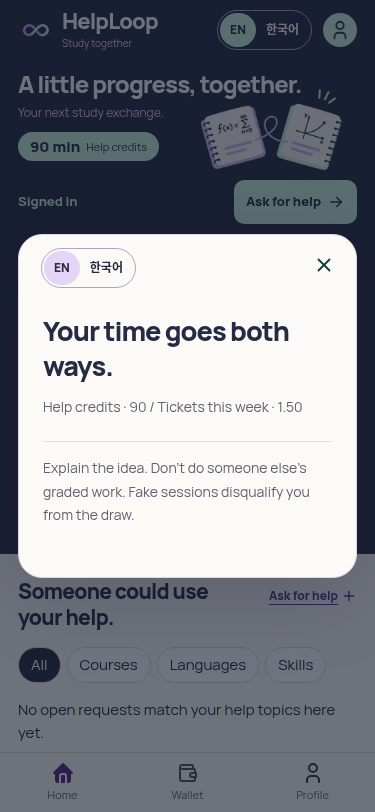
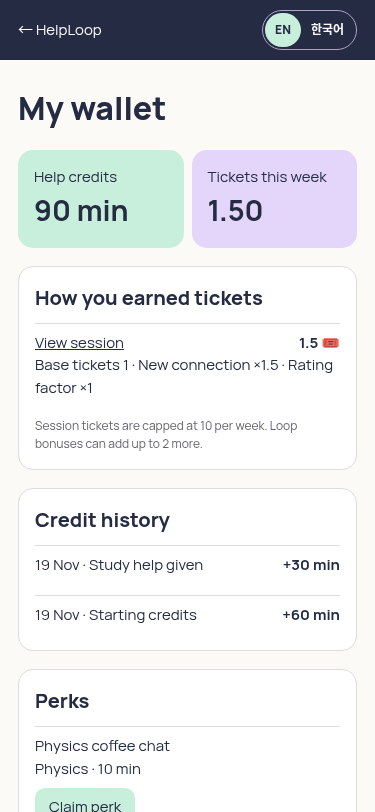
Show credit history, ticket factors and claimable perks on the bilingual wallet

diff --git a/src/app/(app)/wallet/screen.tsx b/src/app/(app)/wallet/screen.tsx
@@ -1,0 +1,65 @@
+"use client";
+
+import Link from "next/link";
+import { useActionState, useEffect } from "react";
+import { useRouter } from "next/navigation";
+import { useLanguage } from "@/components/locale";
+import { GoogleSignIn } from "@/components/google-sign-in";
+import type { getWallet } from "@/server/queries";
+import { claimPerk } from "./actions";
+import home from "@/components/home/home.module.css";
+import styles from "./wallet.module.css";
+
+const words = {
+  en: { title:"My wallet", balance:"Help credits", tickets:"Tickets this week", minutes:"min", why:"How you earned tickets", history:"Credit history",
+    empty:"Help a classmate and confirm the session together to earn your first tickets.", noEntries:"No credit transactions yet.", pair:"New connection", repeat:"Repeat pair", rating:"Rating factor", base:"Base tickets", session:"View session",
+    perks:"Perks", noPerks:"No perks available yet.", claim:"Claim perk", claimed:"Perk claimed", already:"Already claimed", credit:"More credits needed.", full:"All places are taken.",
+    unavailable:"Couldn’t load or update your wallet.", retry:"Try again", login:"Sign in to see your wallet.", draw:"This week’s draw", hash:"Published draw code", noDraw:"Draw details haven’t been published yet.",
+    cap:"Session tickets are capped at 10 per week. Loop bonuses can add up to 2 more.", starter:"Starting credits", session_earned:"Study help given", session_spent:"Study help received", perk:"Perk redemption", admin:"Credit adjustment" },
+  ko: { title:"내 지갑", balance:"도움 크레딧", tickets:"이번 주 티켓", minutes:"분", why:"티켓 적립 내역", history:"크레딧 내역",
+    empty:"친구를 도와주고 함께 세션을 확인하면 첫 티켓을 받아요.", noEntries:"아직 크레딧 내역이 없어요.", pair:"새 친구", repeat:"반복 만남", rating:"평점 배수", base:"기본 티켓", session:"세션 보기",
+    perks:"혜택", noPerks:"아직 이용할 수 있는 혜택이 없어요.", claim:"혜택 신청", claimed:"신청 완료", already:"이미 신청했어요", credit:"크레딧이 부족해요.", full:"정원이 찼어요.",
+    unavailable:"지갑을 불러오거나 갱신하지 못했어요.", retry:"다시 시도", login:"지갑을 보려면 로그인해 주세요.", draw:"이번 주 추첨", hash:"공개된 추첨 코드", noDraw:"아직 추첨 정보가 없어요.",
+    cap:"세션 티켓은 주당 최대 10장이고, 루프 보너스로 최대 2장을 더 받을 수 있어요.", starter:"시작 크레딧", session_earned:"도움 제공", session_spent:"도움 받음", perk:"혜택 사용", admin:"크레딧 조정" }
+};
+type Wallet = Awaited<ReturnType<typeof getWallet>>;
+type Perk = { id:string; title:string; department:string|null; host_label:string; cost_minutes:number; claimed:boolean };
+
+export function WalletScreen({ wallet, perks = [], gate }: { wallet?:Wallet; perks?:Perk[]; gate?:"login"|"unavailable" }) {
+  const [language,setLanguage] = useLanguage();
+  const t = words[language];
+  const router = useRouter();
+  const [feedback,action,pending] = useActionState(claimPerk,"");
+  const loaded = !!wallet;
+  useEffect(() => {
+    if (!loaded) return;
+    const refresh = () => { if (!document.hidden) router.refresh(); };
+    const timer = window.setInterval(refresh, 15000);
+    document.addEventListener("visibilitychange", refresh);
+    return () => { clearInterval(timer); document.removeEventListener("visibilitychange", refresh); };
+  }, [loaded, router]);
+  const date = new Intl.DateTimeFormat(language === "ko" ? "ko-KR" : "en-GB", { month:"short", day:"numeric", timeZone:"Asia/Seoul" });
+  return <main className={home.app} lang={language}>
+    <div className={home.darkSurface}><header className={home.masthead}><Link href="/" className={home.brand}>← HelpLoop</Link>
+      <div className={home.language}><button aria-label="English" aria-pressed={language==="en"} onClick={()=>setLanguage("en")}>EN</button>
+        <button lang="ko" aria-pressed={language==="ko"} onClick={()=>setLanguage("ko")}>한국어</button></div></header></div>
+    <div className={styles.body}><h1>{t.title}</h1>{gate && <p role="status">{t[gate]}</p>}
+      {gate === "login" && <GoogleSignIn configured language={language} className={home.primary}/>}
+      {gate === "unavailable" && <button onClick={()=>router.refresh()}>{t.retry}</button>}
+      {wallet && <>
+        <div className={styles.summary}><div><span>{t.balance}</span><strong>{wallet.balance} {t.minutes}</strong></div><div><span>{t.tickets}</span><strong>{wallet.weekTickets}</strong></div></div>
+        <section><h2>{t.why}</h2>{wallet.breakdown.length === 0 && <p>{t.empty}</p>}
+          {wallet.breakdown.map(b => <article key={b.sessionId}><div className={styles.row}><Link href={`/s/${b.sessionId}`}>{t.session}</Link><strong>{b.tickets} 🎟</strong></div>
+            <p>{t.base} {b.base} · {b.newPair && <span>{t.pair} ×1.5 · </span>}{b.pairFactor !== 1 && <span>{t.repeat} ×{b.pairFactor} · </span>}{t.rating} ×{b.ratingFactor}</p></article>)}
+          <small>{t.cap}</small></section>
+        <section><h2>{t.history}</h2>{wallet.entries.length === 0 && <p>{t.noEntries}</p>}
+          {wallet.entries.map((entry,i) => <article className={styles.row} key={i}><span>{date.format(new Date(entry.createdAt))} · {t[entry.reason]}</span>
+          <strong>{entry.delta > 0 ? "+" : ""}{entry.delta} {t.minutes}</strong></article>)}</section>
+        <section><h2>{t.perks}</h2>{perks.length === 0 && <p>{t.noPerks}</p>}
+          {perks.map(p => <article key={p.id}><h3>{p.title}</h3><p>{[p.department,p.host_label].filter(Boolean).join(" · ")} · {p.cost_minutes} {t.minutes}</p>
+            <form action={action}><button className={styles.claim} disabled={pending || p.claimed || p.cost_minutes > wallet.balance} name="perk" value={p.id}>{p.claimed ? t.already : t.claim}</button></form></article>)}
+          {feedback && <p role="status">{t[feedback as keyof typeof t]}</p>}</section>
+        <section><h2>{t.draw}</h2>{wallet.draw ? <><p>{wallet.draw.prizes.map(p=>p.label).join(" · ")}</p><small>{t.hash}</small><code>{wallet.draw.commitHash}</code></> : <p>{t.noDraw}</p>}</section>
+      </>}
+    </div></main>;
+}

diff --git a/src/components/home/home.tsx b/src/components/home/home.tsx
@@ -5,7 +5,6 @@ import Link from "next/link";
 import { useEffect, useRef, useState } from "react";
 import { GoogleSignIn } from "@/components/google-sign-in";
 import { useLanguage } from "@/components/locale";
-import { useWallet } from "./use-wallet";
 import { LiveFeed } from "./live-feed";
 import { copy } from "./copy";
 import { CampusExplore, CampusDetails, StudyPreferences, campusCopy, type CampusPanel } from "./campus";
@@ -27,15 +26,14 @@ import arrow from "./assets/icons/arrow.svg";
 
 type Panel = "request" | "session" | "ask" | "wallet" | CampusPanel | null;
 
-export function HomeScreen({ configured, signedIn = false, ownRequests = null, sessions = null, authError = false, onboarding = false, exampleSessionAt = "2026-11-18T05:00:00Z" }: {
-  sessions?: { id: string; scheduled_at: string; place: string }[] | null; ownRequests?: { id: string; topic: string }[] | null; configured: boolean; signedIn?: boolean; authError?: boolean; onboarding?: boolean; exampleSessionAt?: string;
+export function HomeScreen({ configured, balance, signedIn = false, ownRequests = null, sessions = null, authError = false, onboarding = false, exampleSessionAt = "2026-11-18T05:00:00Z" }: {
+  balance?: number | null; sessions?: { id: string; scheduled_at: string; place: string }[] | null; ownRequests?: { id: string; topic: string }[] | null; configured: boolean; signedIn?: boolean; authError?: boolean; onboarding?: boolean; exampleSessionAt?: string;
 }) {
   const [language, setLanguage] = useLanguage();
   const t = copy[language];
   const [tab, setTab] = useState(2);
   const [panel, setPanel] = useState<Panel>(null);
-  const walletSummary = useWallet(signedIn, panel === "wallet");
-  const creditMinutes = signedIn ? walletSummary?.balance ?? "—" : 60;
+  const creditMinutes = signedIn ? balance ?? "—" : 60;
   const [request, setRequest] = useState(0);
   const dialog = useRef<HTMLDialogElement>(null);
   const tabs = useRef<(HTMLButtonElement | null)[]>([]);
@@ -72,7 +70,7 @@ export function HomeScreen({ configured, signedIn = false, ownRequests = null, s
             <span><strong>HelpLoop</strong><span>{t.brand}</span></span>
           </Link>
           {!onboarding && <nav aria-label={t.navigation} className={styles.navigation}>
-            {t.nav.map((label, i) => i === 2 ? <Link key={label} href="/profile">{icon(profile, 24)}<span>{label}</span></Link> : <button key={i} type="button" aria-current={i === 0 && !panel ? "page" : undefined}
+            {t.nav.map((label, i) => i === 1 && signedIn ? <Link key={label} href="/wallet">{icon(wallet, 24)}<span>{label}</span></Link> : i === 2 ? <Link key={label} href="/profile">{icon(profile, 24)}<span>{label}</span></Link> : <button key={i} type="button" aria-current={i === 0 && !panel ? "page" : undefined}
               onClick={() => i === 0 ? (setTab(2), window.scrollTo({ top: 0, behavior: "smooth" })) : setPanel("wallet")}>
               {icon([home, wallet, profile][i], 24)}<span>{label}</span>
             </button>)}
@@ -89,9 +87,9 @@ export function HomeScreen({ configured, signedIn = false, ownRequests = null, s
           <section className={styles.hero} aria-labelledby="home-heading">
             <h1 id="home-heading">{t.hero.map((line, i) => <span key={i}>{line}</span>)}</h1>
             <p>{t.subtitle}</p>
-            <button type="button" className={styles.credits} onClick={() => setPanel("wallet")} aria-label={signedIn ? t.walletTitle : t.creditLabel}>
+            {signedIn ? <Link className={styles.credits} href="/wallet"><strong>{creditMinutes}{language === "ko" ? "분" : " min"}</strong><span>{t.credits}</span></Link> : <button type="button" className={styles.credits} onClick={() => setPanel("wallet")} aria-label={signedIn ? t.walletTitle : t.creditLabel}>
               <strong>{creditMinutes}{language === "ko" ? "분" : " min"}</strong><span>{t.credits}</span>
-            </button>
+            </button>}
             <Image className={styles.heroArt} src={notebooks} alt="" width={300} height={200} priority sizes="(min-width: 900px) 280px, 170px" />
           </section>
           <section className={styles.workbench}>
@@ -166,10 +164,7 @@ export function HomeScreen({ configured, signedIn = false, ownRequests = null, s
           <button type="button" className={styles.close} aria-label={t.close} onClick={() => dialog.current?.close()}>{icon(close)}</button>
           {(panel === "request" || panel === "session") && <span className={styles.course}>{t.courses[panel === "session" ? 0 : request]}</span>}
           <h2 id="dialog-heading">{panelTitle}</h2>
-          {panel === "wallet" && signedIn ? <p>{walletSummary
-            ? `${t.credits} · ${walletSummary.balance} / ${language === "ko" ? "이번 주 티켓" : "Tickets this week"} · ${walletSummary.weekTickets}`
-            : language === "ko" ? "지갑 정보를 기다리는 중이에요." : "Waiting for wallet data."}</p>
-            : panel === "practice" || panel === "books" || panel === "trust" ? <CampusDetails language={language} panel={panel} /> : <p>{panel === "session" ? t.withPartner : panel === "request" ? t.detail : panel === "ask" ? t.askBody : t.walletBody}</p>}
+          {panel === "practice" || panel === "books" || panel === "trust" ? <CampusDetails language={language} panel={panel} /> : <p>{panel === "session" ? t.withPartner : panel === "request" ? t.detail : panel === "ask" ? t.askBody : t.walletBody}</p>}
           {panel === "ask" && <StudyPreferences language={language} />}
           {(panel === "request" || panel === "session") && <><p className={styles.dialogPlace}>{icon(clock)}{t.places[panel === "session" ? 0 : request]}</p>
             {panel === "session" && <p><time dateTime={exampleSessionAt}>{t.sessionTime} · {sampleDate}</time></p>}

diff --git a/src/server/helpFeed.ts b/src/server/helpFeed.ts
@@ -4,37 +4,36 @@ import { createAdminClient } from "@/lib/supabase/admin";
 import { createClient } from "@/lib/supabase/server";
 import { rankRequestsForHelper } from "@/lib/model/priority";
 
-import { readAll } from "./readAll";
-
 export async function getHelpFeed() {
   const db = await createClient();
   const { data: { user } } = await db.auth.getUser();
   if (!user) return null;
-  const now = new Date();
-  const [profile, board, history, catalog] = await Promise.all([
-    db.from("profiles").select("help_courses").eq("id", user.id).single(),
-    readAll((from, to) => db.from("request_board").select("id, asker_id, course_code, topic, details, place, minutes, deadline, created_at, is_anonymous")
-      .eq("status", "open").gt("deadline", now.toISOString()).order("deadline").order("id").range(from, to)),
-    readAll((from, to) => db.from("sessions").select("asker_id, helper_id").eq("status", "completed").or(`asker_id.eq.${user.id},helper_id.eq.${user.id}`).order("id").range(from, to)),
-    db.from("courses").select("code, kind, name_ko, name_en"),
-  ]);
-  if (profile.error || catalog.error) throw new Error("Cannot load help feed");
+  const profile = await db.from("profiles").select("help_courses").eq("id", user.id).single();
+  if (profile.error) throw profile.error;
   const courses = profile.data.help_courses;
-  const rows = board.filter(row => row.asker_id !== user.id && row.course_code && courses.includes(row.course_code));
+  if (!courses.length) return [];
+  const now = new Date();
+  const [board, history, catalog] = await Promise.all([
+    db.from("request_board").select("id, asker_id, course_code, topic, details, place, minutes, deadline, created_at, is_anonymous")
+      .eq("status", "open").in("course_code", courses).gt("deadline", now.toISOString()).order("deadline").order("id"),
+    db.from("sessions").select("asker_id, helper_id").eq("status", "completed").or(`asker_id.eq.${user.id},helper_id.eq.${user.id}`),
+    db.from("courses").select("code, kind, name_ko, name_en").in("code", courses),
+  ]);
+  if (board.error || history.error || catalog.error) throw new Error("Cannot load help feed");
+  const rows = board.data.filter(row => row.asker_id !== user.id);
   if (!rows.length) return [];
   // Only resolve identities for open, masked rows that the caller's board already returned.
   // Keep these IDs inside this module for ranking. Never include them in a card.
   const masked = rows.flatMap(row => row.is_anonymous && row.id ? [row.id] : []);
-  const visible = [...new Set(rows.flatMap(row => !row.is_anonymous && row.asker_id ? [row.asker_id] : []))];
-  const [identities, names] = await Promise.all([
-    masked.length ? createAdminClient().from("requests").select("id, asker_id")
-      .in("id", masked).eq("is_anonymous", true).eq("status", "open") : { data: [], error: null },
-    visible.length ? db.from("profiles").select("id, display_name, help_courses").in("id", visible) : { data: [], error: null },
-  ]);
-  if (identities.error || names.error) throw new Error("Cannot load matching students");
+  const identities = masked.length ? await createAdminClient().from("requests").select("id, asker_id")
+    .in("id", masked).eq("is_anonymous", true).eq("status", "open") : { data: [], error: null };
+  if (identities.error) throw identities.error;
   const hidden = new Map(identities.data.map(row => [row.id, row.asker_id]));
+  const visible = [...new Set(rows.flatMap(row => !row.is_anonymous && row.asker_id ? [row.asker_id] : []))];
+  const names = visible.length ? await db.from("profiles").select("id, display_name, help_courses").in("id", visible) : { data: [], error: null };
+  if (names.error) throw names.error;
   const people = new Map(names.data.map(person => [person.id, person]));
-  const partners = new Set(history.map(row => row.asker_id === user.id ? row.helper_id : row.asker_id));
+  const partners = new Set(history.data.map(row => row.asker_id === user.id ? row.helper_id : row.asker_id));
   const byId = new Map(rows.map(row => [row.id, row]));
   const offers = new Map(catalog.data.map(course => [course.code, course]));
   const requests = rows.flatMap(row => {

diff --git a/src/server/suggestedHelpers.ts b/src/server/suggestedHelpers.ts
@@ -4,8 +4,6 @@ import { createAdminClient } from "@/lib/supabase/admin";
 import { suggestHelpers } from "@/lib/model/priority";
 import { weekStartKST } from "@/lib/model/tickets";
 
-import { readAll } from "./readAll";
-
 export async function getSuggestedHelpers(requestId: string) {
   const db = await createClient();
   const { data: { user } } = await db.auth.getUser();
@@ -15,21 +13,25 @@ export async function getSuggestedHelpers(requestId: string) {
   if (request.error) throw request.error;
   if (!request.data) return [];
   const courseCode = request.data.course_code;
-  const [candidates, ratings, history, workload] = await Promise.all([
-    readAll((from, to) => db.from("profiles").select("id, display_name, help_courses")
-      .eq("consent", true).neq("id", user.id).contains("help_courses", [courseCode]).order("id").range(from, to)),
-    readAll((from, to) => db.from("helper_stats").select("user_id, avg_rating").order("user_id").range(from, to)),
-    readAll((from, to) => db.from("sessions").select("asker_id, helper_id").eq("status", "completed").or(`asker_id.eq.${user.id},helper_id.eq.${user.id}`).order("id").range(from, to)),
-    readAll((from, to) => createAdminClient().from("sessions").select("helper_id, helper:profiles!sessions_helper_id_fkey!inner(help_courses)")
-      .contains("helper.help_courses", [courseCode]).eq("status", "completed").gte("completed_at", weekStartKST(new Date()).toISOString()).order("id").range(from, to)),
+  const candidates = await db.from("profiles").select("id, display_name, help_courses")
+    .eq("consent", true).neq("id", user.id).contains("help_courses", [courseCode]);
+  if (candidates.error) throw candidates.error;
+  if (!candidates.data.length) return [];
+  const ids = candidates.data.map(row => row.id);
+  const [ratings, history, workload] = await Promise.all([
+    db.from("helper_stats").select("user_id, avg_rating").in("user_id", ids),
+    db.from("sessions").select("asker_id, helper_id").eq("status", "completed").or(`asker_id.eq.${user.id},helper_id.eq.${user.id}`),
+    createAdminClient().from("sessions").select("helper_id").in("helper_id", ids)
+      .eq("status", "completed").gte("completed_at", weekStartKST(new Date()).toISOString()),
   ]);
+  if (ratings.error || history.error || workload.error) throw new Error("Cannot load suggested helpers");
   const counts = new Map<string, number>();
-  for (const row of workload) counts.set(row.helper_id, (counts.get(row.helper_id) ?? 0) + 1);
-  const averages = new Map(ratings.map(row => [row.user_id, row.avg_rating]));
-  const names = new Map(candidates.map(row => [row.id, row.display_name]));
-  const helpers = candidates.map(row => ({ id: row.id, courses: row.help_courses,
+  for (const row of workload.data) counts.set(row.helper_id, (counts.get(row.helper_id) ?? 0) + 1);
+  const averages = new Map(ratings.data.map(row => [row.user_id, row.avg_rating]));
+  const names = new Map(candidates.data.map(row => [row.id, row.display_name]));
+  const helpers = candidates.data.map(row => ({ id: row.id, courses: row.help_courses,
     avgRating: averages.get(row.id) ?? null, sessionsThisWeek: counts.get(row.id) ?? 0 }));
-  const partners = new Set(history.map(row => row.asker_id === user.id ? row.helper_id : row.asker_id));
+  const partners = new Set(history.data.map(row => row.asker_id === user.id ? row.helper_id : row.asker_id));
   return suggestHelpers({ courseCode, askerId: user.id }, helpers, partners)
     .map(match => ({ ...match, name: names.get(match.helper.id)! }));
 }

diff --git a/src/app/(app)/page.tsx b/src/app/(app)/page.tsx
@@ -17,9 +17,9 @@ export default async function Home({ searchParams }: {
   const db = configured ? await createClient() : null;
   const [query, auth] = await Promise.all([searchParams, db?.auth.getUser()]);
   const user = auth?.data.user;
-  const [own, sessions] = db && user ? await Promise.all([db.from("requests").select("id, topic").eq("asker_id", user.id)
+  const [own, sessions, balance] = db && user ? await Promise.all([db.from("requests").select("id, topic").eq("asker_id", user.id)
     .order("created_at", { ascending: false }).limit(30), db.from("sessions").select("id, scheduled_at, place").or(`asker_id.eq.${user.id},helper_id.eq.${user.id}`)
-    .order("created_at", { ascending: false }).limit(30)]) : [null, null];
-  return <HomeScreen configured={configured} signedIn={Boolean(user)} ownRequests={own?.data ?? null} sessions={sessions?.data ?? null}
+    .order("created_at", { ascending: false }).limit(30), db.rpc("my_balance")]) : [null, null, null];
+  return <HomeScreen configured={configured} signedIn={Boolean(user)} balance={balance?.data} ownRequests={own?.data ?? null} sessions={sessions?.data ?? null}
     authError={!user && Boolean(query.auth_error)} exampleSessionAt={tomorrowAtTwoKst()} />;
 }

diff --git a/src/app/(app)/wallet/page.tsx b/src/app/(app)/wallet/page.tsx
@@ -1,0 +1,23 @@
+import { createClient } from "@/lib/supabase/server";
+import { getSupabaseEnv } from "@/lib/supabase/env";
+import { getWallet } from "@/server/queries";
+import { WalletScreen } from "./screen";
+
+export const metadata = { title: "HelpLoop | 내 지갑 · My wallet" };
+
+export default async function WalletPage() {
+  if (!getSupabaseEnv()) return <WalletScreen gate="unavailable" />;
+  const db = await createClient();
+  const { data: { user } } = await db.auth.getUser();
+  if (!user) return <WalletScreen gate="login" />;
+  let props;
+  try {
+    const [wallet, perks, claims] = await Promise.all([getWallet(),
+      db.from("perks").select("id,title,cost_minutes,department,host_label").eq("active", true).order("cost_minutes"),
+      db.from("perk_claims").select("perk_id").eq("user_id", user.id)]);
+    if (perks.error || claims.error) throw new Error("Perks unavailable");
+    const claimed = new Set(claims.data.map(row => row.perk_id));
+    props = { wallet, perks: perks.data.map(p => ({ ...p, claimed: claimed.has(p.id) })) };
+  } catch { return <WalletScreen gate="unavailable" />; }
+  return <WalletScreen {...props} />;
+}

diff --git a/src/app/(app)/wallet/wallet.module.css b/src/app/(app)/wallet/wallet.module.css
@@ -1,0 +1,14 @@
+.body { max-width: 42rem; margin: auto; padding: 24px 18px 60px; display: grid; gap: 18px; overflow-wrap: anywhere; }
+.body h1 { font-size: 2rem; font-weight: 800; }
+.body h2 { font-size: 1.25rem; font-weight: 750; }
+.summary { display: grid; grid-template-columns: 1fr 1fr; gap: 8px; }
+.summary div, .body section { padding: 16px; border-radius: 15px; }
+.summary div { background: var(--mint); }
+.summary div + div { background: #e4d5fa; }
+.summary strong { display: block; font-size: 1.8rem; }
+.body section { display: grid; gap: 10px; background: white; border: 1px solid var(--line); }
+.body article { padding: 8px 0; border-top: 1px solid var(--line); }
+.row { display: flex; justify-content: space-between; gap: 8px; }
+.body article a { text-decoration: underline; }
+.body small { color: var(--muted); }
+.claim { background: var(--mint); border-radius: 10px; padding: 8px 14px; margin-top: 8px; }

diff --git a/src/app/(app)/wallet/actions.ts b/src/app/(app)/wallet/actions.ts
@@ -1,0 +1,20 @@
+"use server";
+
+import { createClient } from "@/lib/supabase/server";
+import { revalidatePath } from "next/cache";
+import { z } from "zod";
+
+export async function claimPerk(_previous: string, form: FormData) {
+  const id = z.uuid().safeParse(form.get("perk"));
+  if (!id.success) return "unavailable";
+  const db = await createClient();
+  const { data: { user } } = await db.auth.getUser();
+  if (!user) return "login";
+  const { error } = await db.rpc("claim_perk", { p_perk: id.data });
+  revalidatePath("/wallet");
+  if (!error) return "claimed";
+  if (error.code === "23505") return "already";
+  if (error.message.includes("Not enough credit")) return "credit";
+  if (error.message.includes("slots")) return "full";
+  return "unavailable";
+}
